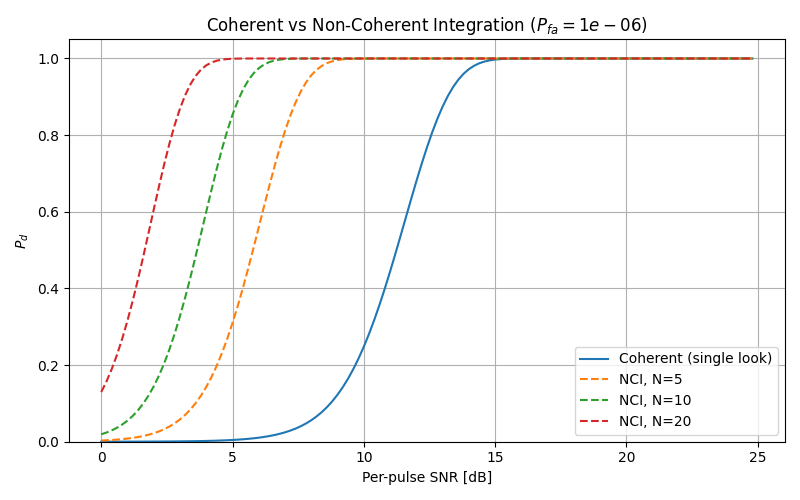
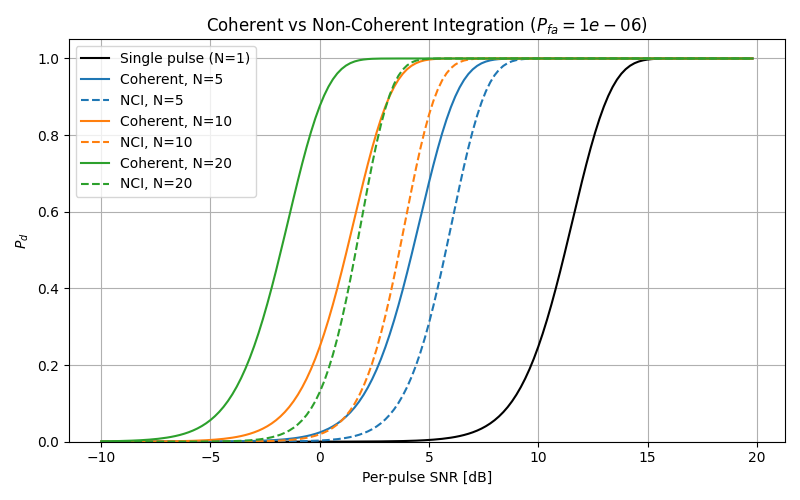
Deployed cfdfc4e with MkDocs version: 1.6.1

diff --git a/404.html b/404.html
@@ -17,7 +17,7 @@
       
       
       <link rel="icon" href="/assets/images/favicon.png">
-      <meta name="generator" content="mkdocs-1.6.1, mkdocs-material-9.7.6">
+      <meta name="generator" content="mkdocs-1.6.1, mkdocs-material-9.7.7">
     
     
       
@@ -25,7 +25,7 @@
       
     
     
-      <link rel="stylesheet" href="/assets/stylesheets/main.484c7ddc.min.css">
+      <link rel="stylesheet" href="/assets/stylesheets/main.ec1eaa64.min.css">
       
       
 
@@ -812,7 +812,7 @@
       <script id="__config" type="application/json">{"annotate": null, "base": "/", "features": [], "search": "/assets/javascripts/workers/search.2c215733.min.js", "tags": null, "translations": {"clipboard.copied": "Copied to clipboard", "clipboard.copy": "Copy to clipboard", "search.result.more.one": "1 more on this page", "search.result.more.other": "# more on this page", "search.result.none": "No matching documents", "search.result.one": "1 matching document", "search.result.other": "# matching documents", "search.result.placeholder": "Type to start searching", "search.result.term.missing": "Missing", "select.version": "Select version"}, "version": null}</script>
     
     
-      <script src="/assets/javascripts/bundle.79ae519e.min.js"></script>
+      <script src="/assets/javascripts/bundle.d7400e89.min.js"></script>
       
     
   </body>

diff --git a/api/constants.html b/api/constants.html
@@ -16,7 +16,7 @@
       
       
       <link rel="icon" href="../assets/images/favicon.png">
-      <meta name="generator" content="mkdocs-1.6.1, mkdocs-material-9.7.6">
+      <meta name="generator" content="mkdocs-1.6.1, mkdocs-material-9.7.7">
     
     
       
@@ -24,7 +24,7 @@
       
     
     
-      <link rel="stylesheet" href="../assets/stylesheets/main.484c7ddc.min.css">
+      <link rel="stylesheet" href="../assets/stylesheets/main.ec1eaa64.min.css">
       
       
 
@@ -1132,7 +1132,7 @@ and waveform modules.</p>
       <script id="__config" type="application/json">{"annotate": null, "base": "..", "features": [], "search": "../assets/javascripts/workers/search.2c215733.min.js", "tags": null, "translations": {"clipboard.copied": "Copied to clipboard", "clipboard.copy": "Copy to clipboard", "search.result.more.one": "1 more on this page", "search.result.more.other": "# more on this page", "search.result.none": "No matching documents", "search.result.one": "1 matching document", "search.result.other": "# matching documents", "search.result.placeholder": "Type to start searching", "search.result.term.missing": "Missing", "select.version": "Select version"}, "version": null}</script>
     
     
-      <script src="../assets/javascripts/bundle.79ae519e.min.js"></script>
+      <script src="../assets/javascripts/bundle.d7400e89.min.js"></script>
       
     
   

diff --git a/api/geometry.html b/api/geometry.html
@@ -18,7 +18,7 @@
       
       
       <link rel="icon" href="../assets/images/favicon.png">
-      <meta name="generator" content="mkdocs-1.6.1, mkdocs-material-9.7.6">
+      <meta name="generator" content="mkdocs-1.6.1, mkdocs-material-9.7.7">
     
     
       
@@ -26,7 +26,7 @@
       
     
     
-      <link rel="stylesheet" href="../assets/stylesheets/main.484c7ddc.min.css">
+      <link rel="stylesheet" href="../assets/stylesheets/main.ec1eaa64.min.css">
       
       
 
@@ -1483,7 +1483,7 @@ Positions are centred so that pulse <code>n_pulses // 2</code> is at <em>x</em> 
       <script id="__config" type="application/json">{"annotate": null, "base": "..", "features": [], "search": "../assets/javascripts/workers/search.2c215733.min.js", "tags": null, "translations": {"clipboard.copied": "Copied to clipboard", "clipboard.copy": "Copy to clipboard", "search.result.more.one": "1 more on this page", "search.result.more.other": "# more on this page", "search.result.none": "No matching documents", "search.result.one": "1 matching document", "search.result.other": "# matching documents", "search.result.placeholder": "Type to start searching", "search.result.term.missing": "Missing", "select.version": "Select version"}, "version": null}</script>
     
     
-      <script src="../assets/javascripts/bundle.79ae519e.min.js"></script>
+      <script src="../assets/javascripts/bundle.d7400e89.min.js"></script>
       
     
   

diff --git a/api/monopulse.html b/api/monopulse.html
@@ -18,7 +18,7 @@
       
       
       <link rel="icon" href="../assets/images/favicon.png">
-      <meta name="generator" content="mkdocs-1.6.1, mkdocs-material-9.7.6">
+      <meta name="generator" content="mkdocs-1.6.1, mkdocs-material-9.7.7">
     
     
       
@@ -26,7 +26,7 @@
       
     
     
-      <link rel="stylesheet" href="../assets/stylesheets/main.484c7ddc.min.css">
+      <link rel="stylesheet" href="../assets/stylesheets/main.ec1eaa64.min.css">
       
       
 
@@ -1482,7 +1482,7 @@ containing target power.</p>
       <script id="__config" type="application/json">{"annotate": null, "base": "..", "features": [], "search": "../assets/javascripts/workers/search.2c215733.min.js", "tags": null, "translations": {"clipboard.copied": "Copied to clipboard", "clipboard.copy": "Copy to clipboard", "search.result.more.one": "1 more on this page", "search.result.more.other": "# more on this page", "search.result.none": "No matching documents", "search.result.one": "1 matching document", "search.result.other": "# matching documents", "search.result.placeholder": "Type to start searching", "search.result.term.missing": "Missing", "select.version": "Select version"}, "version": null}</script>
     
     
-      <script src="../assets/javascripts/bundle.79ae519e.min.js"></script>
+      <script src="../assets/javascripts/bundle.d7400e89.min.js"></script>
       
     
   

diff --git a/api/noise.html b/api/noise.html
@@ -18,7 +18,7 @@
       
       
       <link rel="icon" href="../assets/images/favicon.png">
-      <meta name="generator" content="mkdocs-1.6.1, mkdocs-material-9.7.6">
+      <meta name="generator" content="mkdocs-1.6.1, mkdocs-material-9.7.7">
     
     
       
@@ -26,7 +26,7 @@
       
     
     
-      <link rel="stylesheet" href="../assets/stylesheets/main.484c7ddc.min.css">
+      <link rel="stylesheet" href="../assets/stylesheets/main.ec1eaa64.min.css">
       
       
 
@@ -1621,7 +1621,7 @@ magnitude of one. Defaults to False.</p>
       <script id="__config" type="application/json">{"annotate": null, "base": "..", "features": [], "search": "../assets/javascripts/workers/search.2c215733.min.js", "tags": null, "translations": {"clipboard.copied": "Copied to clipboard", "clipboard.copy": "Copy to clipboard", "search.result.more.one": "1 more on this page", "search.result.more.other": "# more on this page", "search.result.none": "No matching documents", "search.result.one": "1 matching document", "search.result.other": "# matching documents", "search.result.placeholder": "Type to start searching", "search.result.term.missing": "Missing", "select.version": "Select version"}, "version": null}</script>
     
     
-      <script src="../assets/javascripts/bundle.79ae519e.min.js"></script>
+      <script src="../assets/javascripts/bundle.d7400e89.min.js"></script>
       
     
   

diff --git a/api/pulse_doppler_radar.html b/api/pulse_doppler_radar.html
@@ -18,7 +18,7 @@
       
       
       <link rel="icon" href="../assets/images/favicon.png">
-      <meta name="generator" content="mkdocs-1.6.1, mkdocs-material-9.7.6">
+      <meta name="generator" content="mkdocs-1.6.1, mkdocs-material-9.7.7">
     
     
       
@@ -26,7 +26,7 @@
       
     
     
-      <link rel="stylesheet" href="../assets/stylesheets/main.484c7ddc.min.css">
+      <link rel="stylesheet" href="../assets/stylesheets/main.ec1eaa64.min.css">
       
       
 
@@ -3087,7 +3087,7 @@ and derives secondary quantities such as number of pulses and unambiguous range.
       <script id="__config" type="application/json">{"annotate": null, "base": "..", "features": [], "search": "../assets/javascripts/workers/search.2c215733.min.js", "tags": null, "translations": {"clipboard.copied": "Copied to clipboard", "clipboard.copy": "Copy to clipboard", "search.result.more.one": "1 more on this page", "search.result.more.other": "# more on this page", "search.result.none": "No matching documents", "search.result.one": "1 matching document", "search.result.other": "# matching documents", "search.result.placeholder": "Type to start searching", "search.result.term.missing": "Missing", "select.version": "Select version"}, "version": null}</script>
     
     
-      <script src="../assets/javascripts/bundle.79ae519e.min.js"></script>
+      <script src="../assets/javascripts/bundle.d7400e89.min.js"></script>
       
     
   

diff --git a/api/range_equation.html b/api/range_equation.html
@@ -18,7 +18,7 @@
       
       
       <link rel="icon" href="../assets/images/favicon.png">
-      <meta name="generator" content="mkdocs-1.6.1, mkdocs-material-9.7.6">
+      <meta name="generator" content="mkdocs-1.6.1, mkdocs-material-9.7.7">
     
     
       
@@ -26,7 +26,7 @@
       
     
     
-      <link rel="stylesheet" href="../assets/stylesheets/main.484c7ddc.min.css">
+      <link rel="stylesheet" href="../assets/stylesheets/main.ec1eaa64.min.css">
       
       
 
@@ -4230,7 +4230,7 @@ All gain and loss factors must be in linear (unitless) form.</p>
       <script id="__config" type="application/json">{"annotate": null, "base": "..", "features": [], "search": "../assets/javascripts/workers/search.2c215733.min.js", "tags": null, "translations": {"clipboard.copied": "Copied to clipboard", "clipboard.copy": "Copy to clipboard", "search.result.more.one": "1 more on this page", "search.result.more.other": "# more on this page", "search.result.none": "No matching documents", "search.result.one": "1 matching document", "search.result.other": "# matching documents", "search.result.placeholder": "Type to start searching", "search.result.term.missing": "Missing", "select.version": "Select version"}, "version": null}</script>
     
     
-      <script src="../assets/javascripts/bundle.79ae519e.min.js"></script>
+      <script src="../assets/javascripts/bundle.d7400e89.min.js"></script>
       
     
   

diff --git a/api/rdm.html b/api/rdm.html
@@ -18,7 +18,7 @@
       
       
       <link rel="icon" href="../assets/images/favicon.png">
-      <meta name="generator" content="mkdocs-1.6.1, mkdocs-material-9.7.6">
+      <meta name="generator" content="mkdocs-1.6.1, mkdocs-material-9.7.7">
     
     
       
@@ -26,7 +26,7 @@
       
     
     
-      <link rel="stylesheet" href="../assets/stylesheets/main.484c7ddc.min.css">
+      <link rel="stylesheet" href="../assets/stylesheets/main.ec1eaa64.min.css">
       
       
 
@@ -2324,7 +2324,7 @@ and the off-peak noise floor has voltage standard deviation of 1.  Use
       <script id="__config" type="application/json">{"annotate": null, "base": "..", "features": [], "search": "../assets/javascripts/workers/search.2c215733.min.js", "tags": null, "translations": {"clipboard.copied": "Copied to clipboard", "clipboard.copy": "Copy to clipboard", "search.result.more.one": "1 more on this page", "search.result.more.other": "# more on this page", "search.result.none": "No matching documents", "search.result.one": "1 matching document", "search.result.other": "# matching documents", "search.result.placeholder": "Type to start searching", "search.result.term.missing": "Missing", "select.version": "Select version"}, "version": null}</script>
     
     
-      <script src="../assets/javascripts/bundle.79ae519e.min.js"></script>
+      <script src="../assets/javascripts/bundle.d7400e89.min.js"></script>
       
     
   

diff --git a/api/returns.html b/api/returns.html
@@ -18,7 +18,7 @@
       
       
       <link rel="icon" href="../assets/images/favicon.png">
-      <meta name="generator" content="mkdocs-1.6.1, mkdocs-material-9.7.6">
+      <meta name="generator" content="mkdocs-1.6.1, mkdocs-material-9.7.7">
     
     
       
@@ -26,7 +26,7 @@
       
     
     
-      <link rel="stylesheet" href="../assets/stylesheets/main.484c7ddc.min.css">
+      <link rel="stylesheet" href="../assets/stylesheets/main.ec1eaa64.min.css">
       
       
 
@@ -2369,7 +2369,7 @@ Defaults to 1 (isotropic / no array).</p>
       <script id="__config" type="application/json">{"annotate": null, "base": "..", "features": [], "search": "../assets/javascripts/workers/search.2c215733.min.js", "tags": null, "translations": {"clipboard.copied": "Copied to clipboard", "clipboard.copy": "Copy to clipboard", "search.result.more.one": "1 more on this page", "search.result.more.other": "# more on this page", "search.result.none": "No matching documents", "search.result.one": "1 matching document", "search.result.other": "# matching documents", "search.result.placeholder": "Type to start searching", "search.result.term.missing": "Missing", "select.version": "Select version"}, "version": null}</script>
     
     
-      <script src="../assets/javascripts/bundle.79ae519e.min.js"></script>
+      <script src="../assets/javascripts/bundle.d7400e89.min.js"></script>
       
     
   

diff --git a/api/rf_datacube.html b/api/rf_datacube.html
@@ -18,7 +18,7 @@
       
       
       <link rel="icon" href="../assets/images/favicon.png">
-      <meta name="generator" content="mkdocs-1.6.1, mkdocs-material-9.7.6">
+      <meta name="generator" content="mkdocs-1.6.1, mkdocs-material-9.7.7">
     
     
       
@@ -26,7 +26,7 @@
       
     
     
-      <link rel="stylesheet" href="../assets/stylesheets/main.484c7ddc.min.css">
+      <link rel="stylesheet" href="../assets/stylesheets/main.ec1eaa64.min.css">
       
       
 
@@ -1818,7 +1818,7 @@ by the speed of light and the sampling rate.</p>
       <script id="__config" type="application/json">{"annotate": null, "base": "..", "features": [], "search": "../assets/javascripts/workers/search.2c215733.min.js", "tags": null, "translations": {"clipboard.copied": "Copied to clipboard", "clipboard.copy": "Copy to clipboard", "search.result.more.one": "1 more on this page", "search.result.more.other": "# more on this page", "search.result.none": "No matching documents", "search.result.one": "1 matching document", "search.result.other": "# matching documents", "search.result.placeholder": "Type to start searching", "search.result.term.missing": "Missing", "select.version": "Select version"}, "version": null}</script>
     
     
-      <script src="../assets/javascripts/bundle.79ae519e.min.js"></script>
+      <script src="../assets/javascripts/bundle.d7400e89.min.js"></script>
       
     
   

diff --git a/api/sar.html b/api/sar.html
@@ -18,7 +18,7 @@
       
       
       <link rel="icon" href="../assets/images/favicon.png">
-      <meta name="generator" content="mkdocs-1.6.1, mkdocs-material-9.7.6">
+      <meta name="generator" content="mkdocs-1.6.1, mkdocs-material-9.7.7">
     
     
       
@@ -26,7 +26,7 @@
       
     
     
-      <link rel="stylesheet" href="../assets/stylesheets/main.484c7ddc.min.css">
+      <link rel="stylesheet" href="../assets/stylesheets/main.ec1eaa64.min.css">
       
       
 
@@ -1779,7 +1779,7 @@ convenient way to build one from a ULA specification.</p>
       <script id="__config" type="application/json">{"annotate": null, "base": "..", "features": [], "search": "../assets/javascripts/workers/search.2c215733.min.js", "tags": null, "translations": {"clipboard.copied": "Copied to clipboard", "clipboard.copy": "Copy to clipboard", "search.result.more.one": "1 more on this page", "search.result.more.other": "# more on this page", "search.result.none": "No matching documents", "search.result.one": "1 matching document", "search.result.other": "# matching documents", "search.result.placeholder": "Type to start searching", "search.result.term.missing": "Missing", "select.version": "Select version"}, "version": null}</script>
     
     
-      <script src="../assets/javascripts/bundle.79ae519e.min.js"></script>
+      <script src="../assets/javascripts/bundle.d7400e89.min.js"></script>
       
     
   

diff --git a/api/sar_radar.html b/api/sar_radar.html
@@ -18,7 +18,7 @@
       
       
       <link rel="icon" href="../assets/images/favicon.png">
-      <meta name="generator" content="mkdocs-1.6.1, mkdocs-material-9.7.6">
+      <meta name="generator" content="mkdocs-1.6.1, mkdocs-material-9.7.7">
     
     
       
@@ -26,7 +26,7 @@
       
     
     
-      <link rel="stylesheet" href="../assets/stylesheets/main.484c7ddc.min.css">
+      <link rel="stylesheet" href="../assets/stylesheets/main.ec1eaa64.min.css">
       
       
 
@@ -2876,7 +2876,7 @@ aperture rather than on the physical aperture length.</p>
       <script id="__config" type="application/json">{"annotate": null, "base": "..", "features": [], "search": "../assets/javascripts/workers/search.2c215733.min.js", "tags": null, "translations": {"clipboard.copied": "Copied to clipboard", "clipboard.copy": "Copy to clipboard", "search.result.more.one": "1 more on this page", "search.result.more.other": "# more on this page", "search.result.none": "No matching documents", "search.result.one": "1 matching document", "search.result.other": "# matching documents", "search.result.placeholder": "Type to start searching", "search.result.term.missing": "Missing", "select.version": "Select version"}, "version": null}</script>
     
     
-      <script src="../assets/javascripts/bundle.79ae519e.min.js"></script>
+      <script src="../assets/javascripts/bundle.d7400e89.min.js"></script>
       
     
   